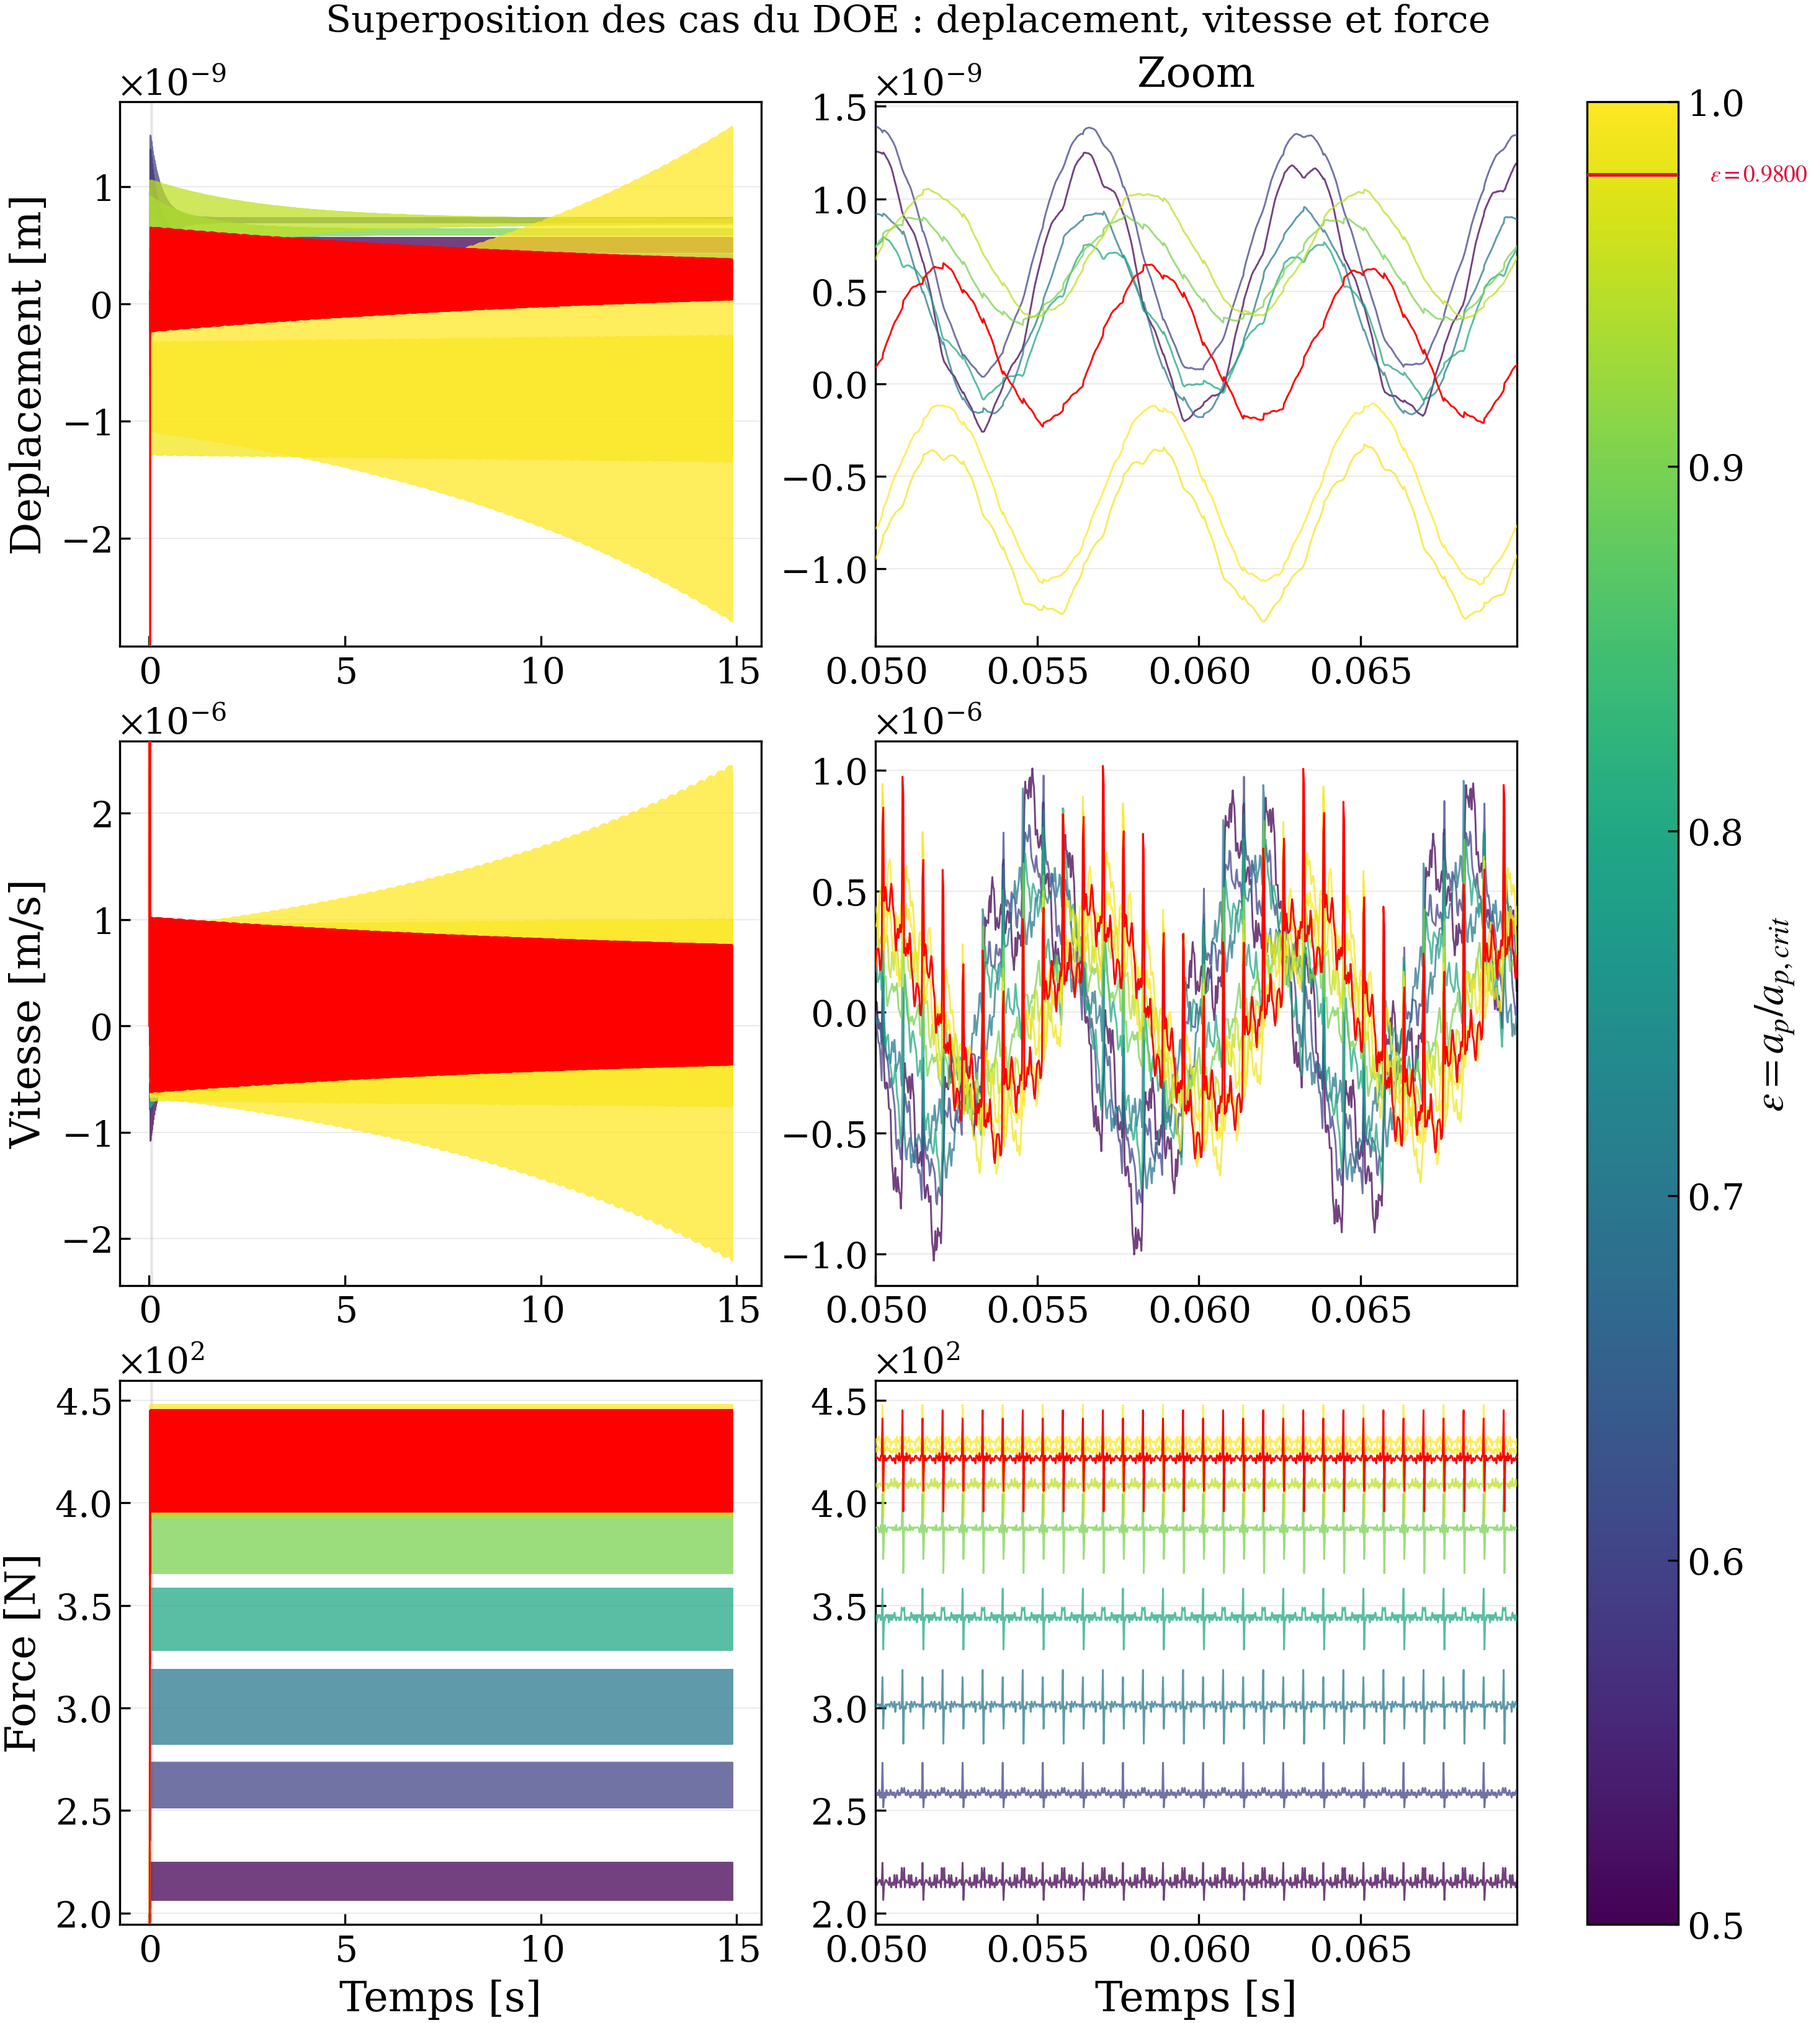
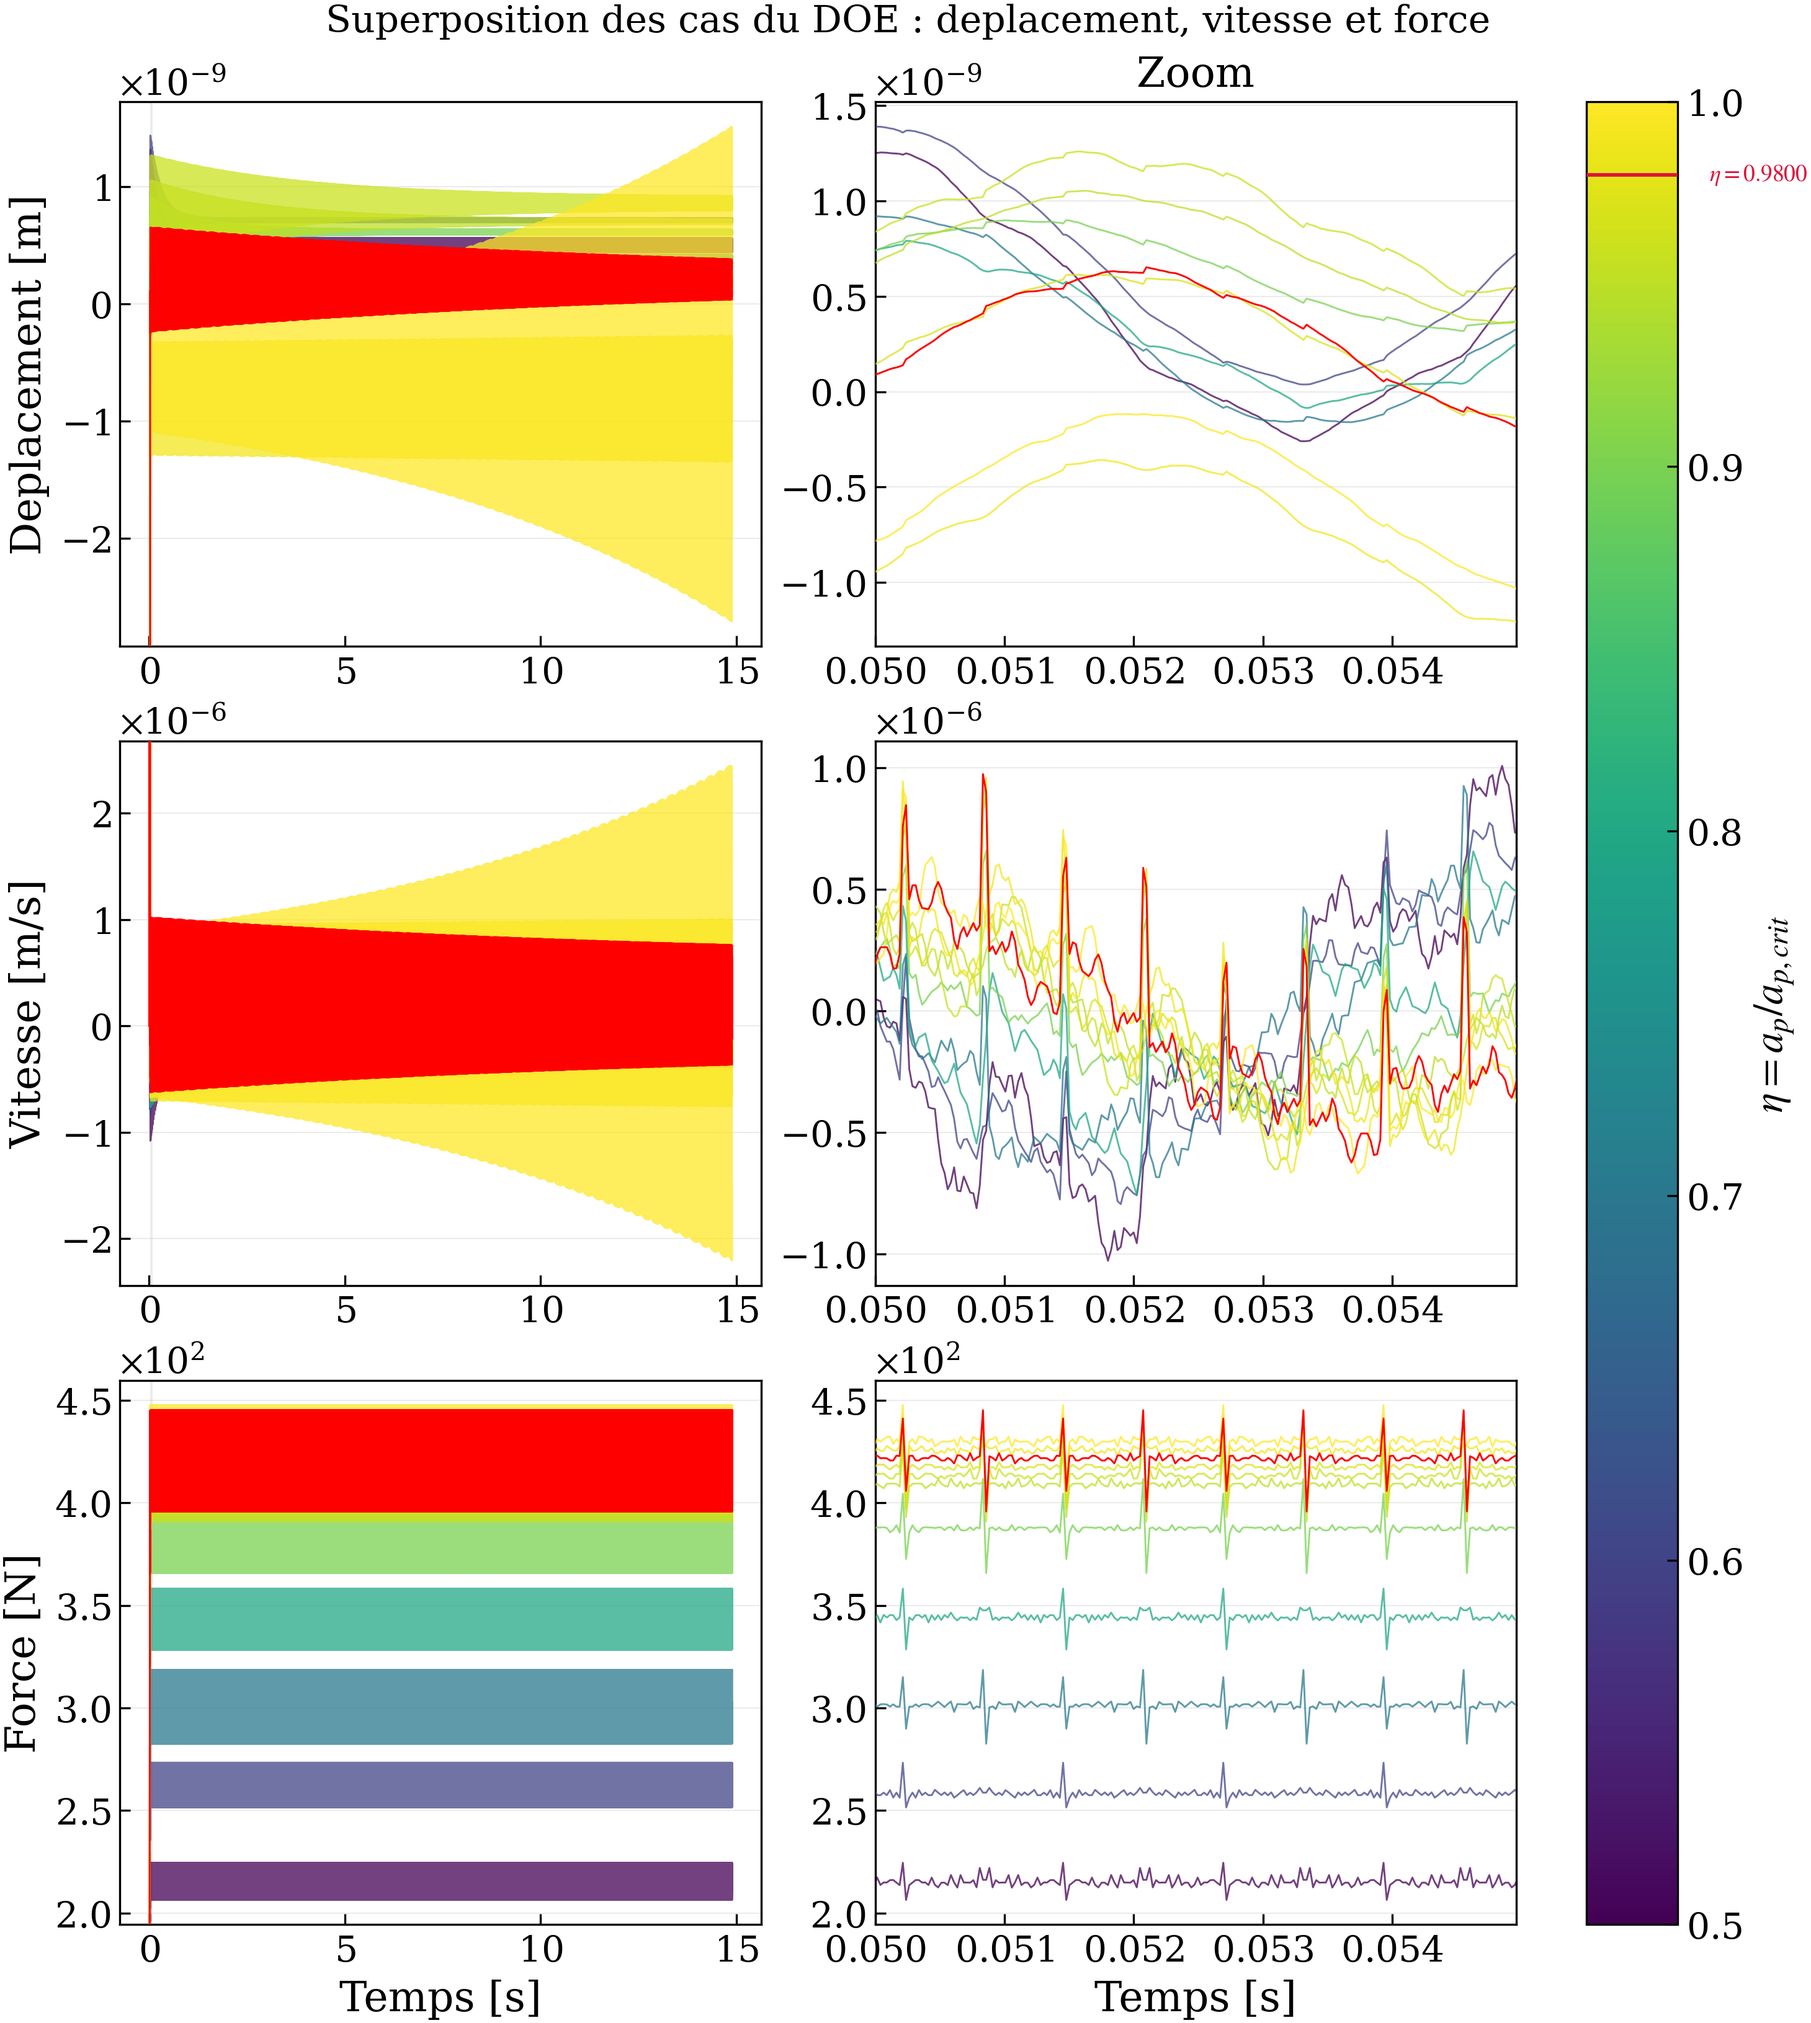
Adjust zoom duration in main function to 1 revolution and update time series plot.

diff --git a/Convergency_Simulation/Etapa_1.py b/Convergency_Simulation/Etapa_1.py
@@ -1061,7 +1061,7 @@ def main() -> None:
                 FIGURE_LANGUAGE = "FR"
                 # Duracion del panel de zoom, en revoluciones del husillo (empieza en t_start,
                 # para mostrar el regimen ya establecido).
-                ZOOM_N_REVOLUTIONS = 4
+                ZOOM_N_REVOLUTIONS = 1
 
                 cases_series = _load_stage1_case_series(h5_path)
                 eta_last_stable = _stage1_eta_last_stable(h5_path)
